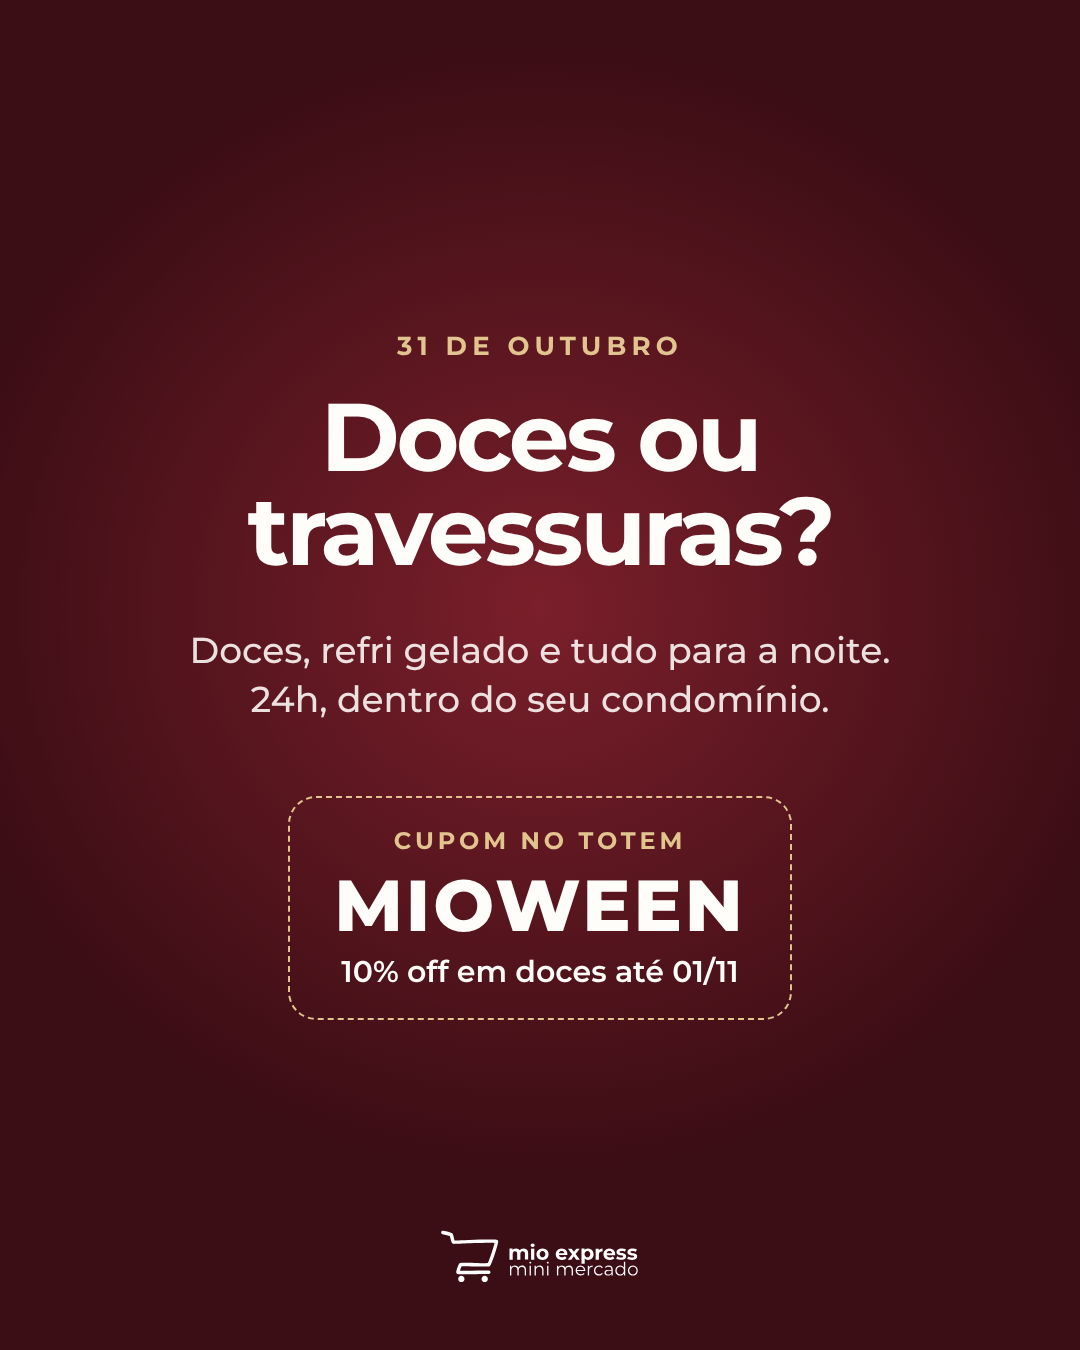
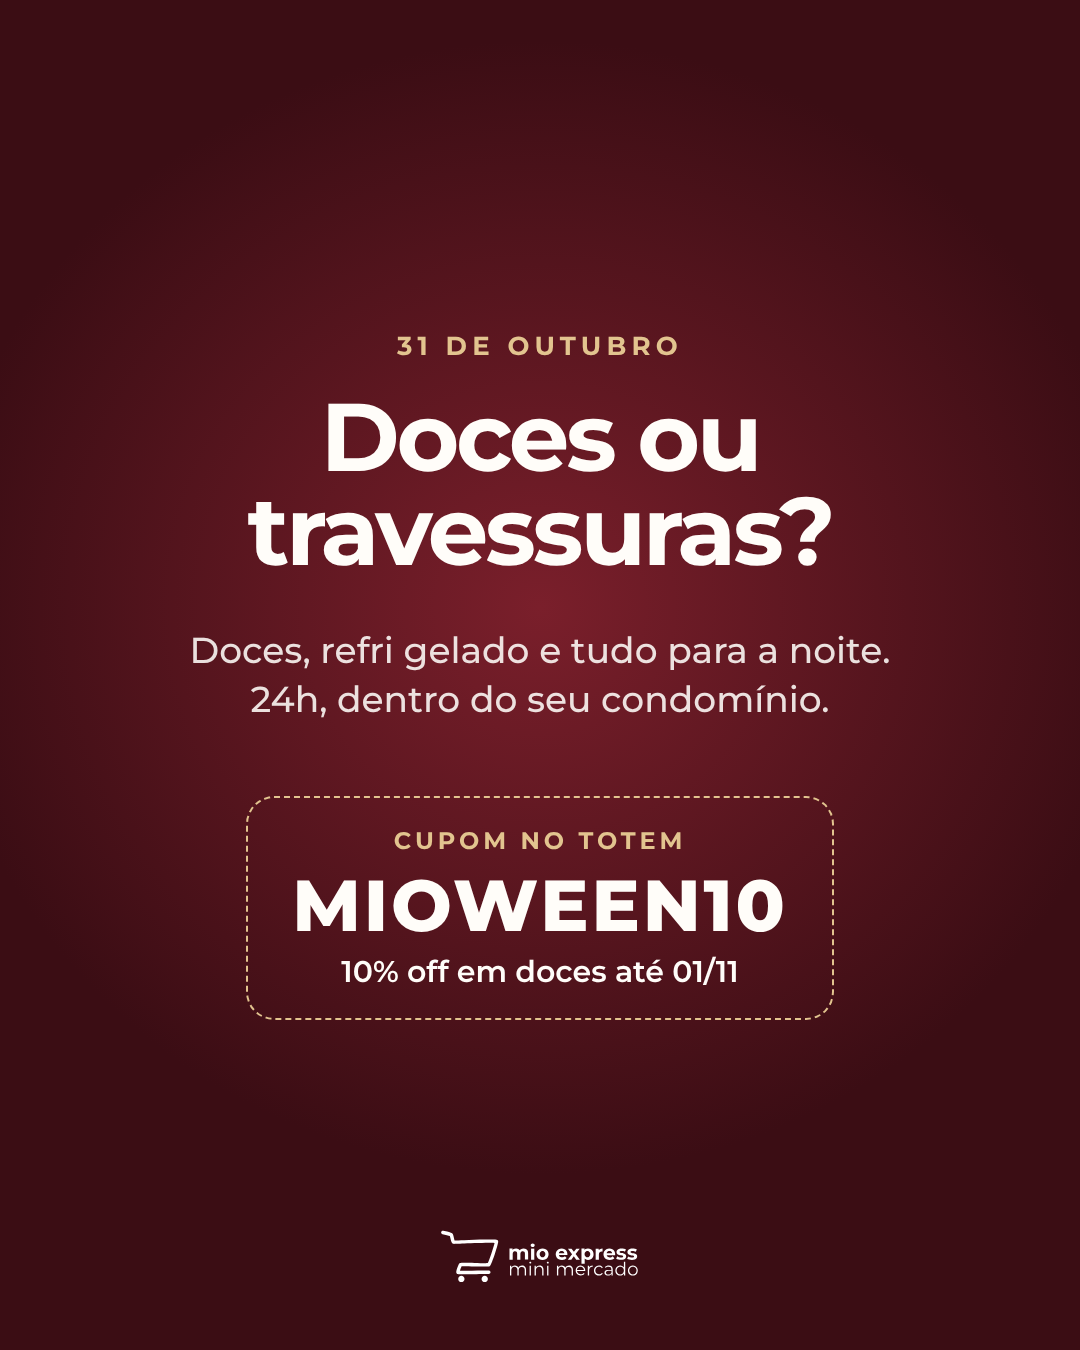
Halloween: cupom MIOWEEN10 (mínimo de 8 caracteres no totem)
Claude-Session: https://claude.ai/code/session_01CwP1brNtxaKT1mUQXiiAjA

Changed region(s): [[0.275, 0.6533, 0.7333, 0.7156]]

diff --git a/CLAUDE.md b/CLAUDE.md
@@ -50,7 +50,7 @@ Leia antes de qualquer trabalho. Vale para o site e para o marketing.
   - Gerador: `node marketing/gerador/posts.mjs [id]`, que gera 1080×1350 em `marketing/posts/<id>/` com `legenda.txt`.
   - Para um post novo, copie um item de `POSTS` no gerador.
 - **Primeiro lote, em rascunho no Metricool desde 26/10/2026** (esperando aprovação do João). As imagens públicas ficam em `public/ig/<id>/` (noindex; ao mudar uma arte, use pasta nova, como `-v2`, por causa do cache):
-  - Seg 26/10 18h: 09 Halloween "até os produtos se fantasiaram" (carrossel com imagens do GPT, aprovado pelo João, agendado de verdade, marcado como IA)
+  - Seg 26/10 18h: 09 Halloween "até os produtos se fantasiaram" (carrossel com imagens do GPT, aprovado pelo João, agendado de verdade, marcado como IA). Cupom MIOWEEN10, 10% em doces até 01/11. Código no totem: mínimo de 8 caracteres, maiúsculas e números
   - Qua 28/10 10h: 01 síndico custo zero (carrossel)
   - Sex 30/10 18h: 07 Halloween (doces ou travessuras)
   - Ter 03/11 10h: 04 dúvidas de síndico (carrossel)
@@ -59,7 +59,7 @@ Leia antes de qualquer trabalho. Vale para o site e para o marketing.
   - Qui 12/11 18h: 05 picolé Los Los
   - Qui 19/11 18h: 02 morador 23h
 - **Imagens criativas:** o João gera no GPT a partir dos prompts que eu escrevo (produto vira personagem, fundo bordô, uma luz só, sem marcas, estilo das campanhas do McDonald's). Eu monto com o logo e o texto. As imagens ficam em `assets/source/<campanha>/`. Marque `isAiGenerated: true`.
-- **Datas comemorativas:** vale fazer post temático (Halloween, Dia do Síndico 30/11, Black Friday, Natal e Ano Novo, verão, Carnaval). Promoção com desconto só se o totem permitir, então pergunte ao João.
+- **Datas comemorativas:** vale fazer post temático (Halloween, Dia do Síndico 30/11, Black Friday, Natal e Ano Novo, verão, Carnaval). O totem aceita cupom: porcentagem ou valor, por categoria, fabricante ou produto, com validade e limite de uso; o código precisa ter no mínimo 8 caracteres. Promoções vão para os stories; no feed, no máximo 1 por mês.
 - **Melhor horário segundo o Metricool:** 10h e 18h nos dias de semana. Posts de síndico às 10h, de morador às 18h.
 - **Segundo lote, a fazer:** noite de jogo (Heineken + snacks + pizza Sadia), depoimento de síndico (sem nome do condomínio), marmitas Liv Up, post de dados (top produtos), Reels com o vídeo dos síndicos e com o institucional, Reels do tour 3D.
 - **Concorrentes:**
